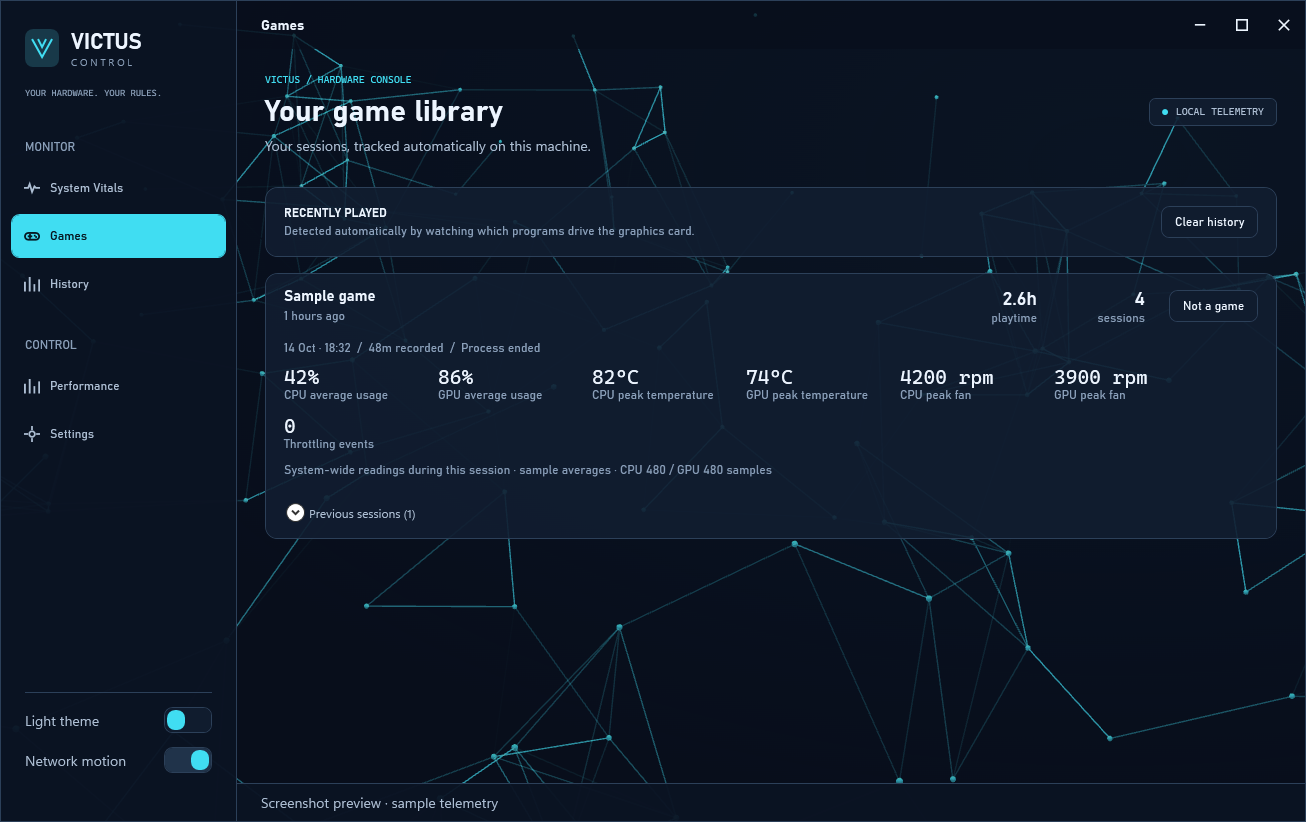
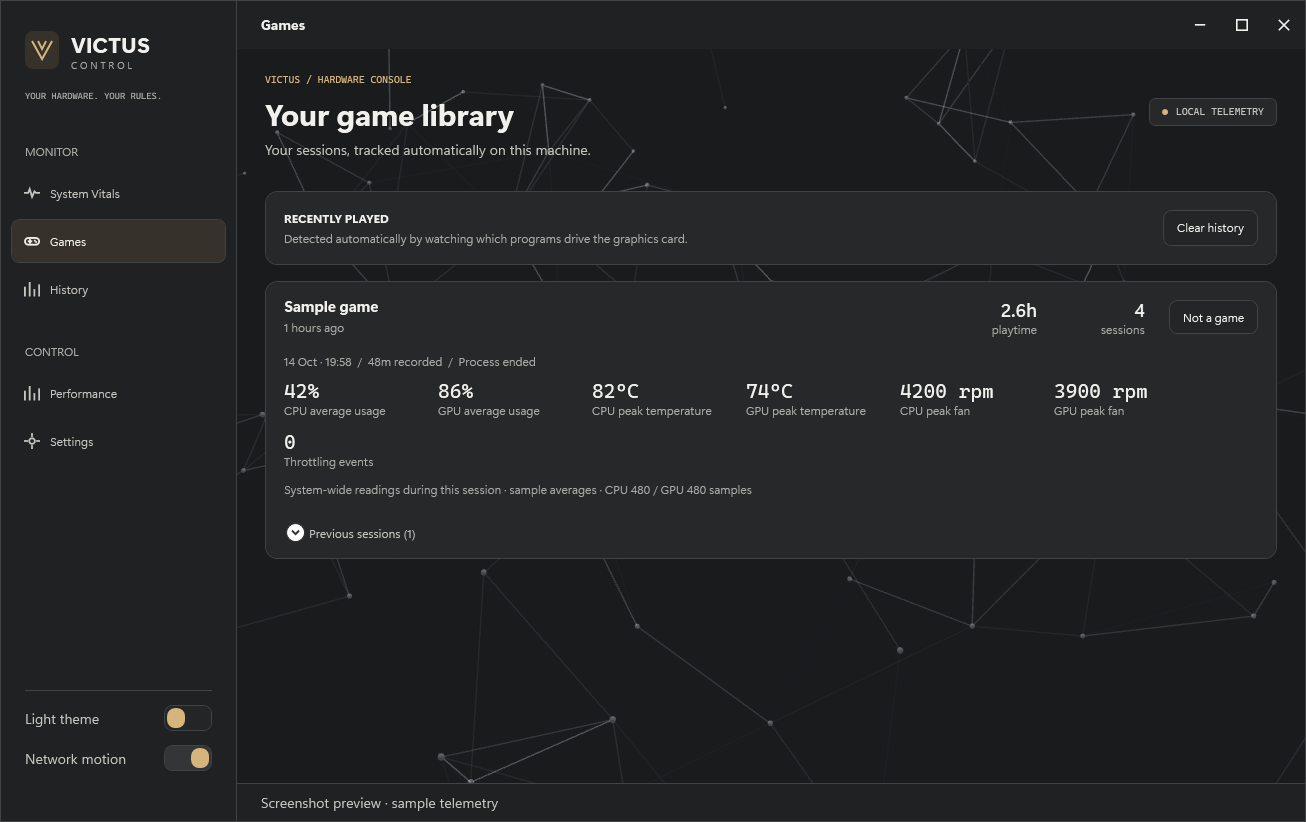
Update theme colors and improve dashboard appearance for better user experience

diff --git a/src/VictusControl.App/Theme/Dark.xaml b/src/VictusControl.App/Theme/Dark.xaml
@@ -1,32 +1,29 @@
 <ResourceDictionary xmlns="http://schemas.microsoft.com/winfx/2006/xaml/presentation"
                     xmlns:x="http://schemas.microsoft.com/winfx/2006/xaml">
-    <SolidColorBrush x:Key="AccentA" Color="#40DDF2"/>
-    <SolidColorBrush x:Key="AccentB" Color="#8895FF"/>
-    <SolidColorBrush x:Key="AccentSoft" Color="#183949"/>
-    <SolidColorBrush x:Key="CardBg" Color="#E6111D30"/>
-    <SolidColorBrush x:Key="CardHover" Color="#20334A"/>
-    <SolidColorBrush x:Key="Danger" Color="#FF738D"/>
-    <SolidColorBrush x:Key="DangerBg" Color="#503F1F2B"/>
-    <SolidColorBrush x:Key="Dither1" Color="#20334A"/>
-    <SolidColorBrush x:Key="Dither2" Color="#17273D"/>
-    <SolidColorBrush x:Key="Dither3" Color="#314760"/>
-    <SolidColorBrush x:Key="Dither4" Color="#405E7A"/>
-    <SolidColorBrush x:Key="Good" Color="#55E3B0"/>
-    <SolidColorBrush x:Key="HeaderBg" Color="#C4080E1B"/>
-    <SolidColorBrush x:Key="Ink" Color="#EDF5FF"/>
-    <SolidColorBrush x:Key="OnAccent" Color="#061923"/>
-    <SolidColorBrush x:Key="Paper" Color="#101C2E"/>
-    <SolidColorBrush x:Key="SidebarBg" Color="#F20B1323"/>
-    <SolidColorBrush x:Key="Stroke" Color="#2C4059"/>
-    <SolidColorBrush x:Key="TextMuted" Color="#8A9FB9"/>
-    <SolidColorBrush x:Key="TextPrimary" Color="#EDF5FF"/>
-    <SolidColorBrush x:Key="TextSecondary" Color="#ADBED3"/>
-    <SolidColorBrush x:Key="Track" Color="#25364F"/>
-    <SolidColorBrush x:Key="Warn" Color="#FFC570"/>
-    <SolidColorBrush x:Key="WarnBg" Color="#503E2C18"/>
-    <SolidColorBrush x:Key="WindowBg" Color="#080E1B"/>
-    <LinearGradientBrush x:Key="AccentRamp" StartPoint="0,1" EndPoint="1,0">
-        <GradientStop Color="#40DDF2" Offset="0"/>
-        <GradientStop Color="#8895FF" Offset="1"/>
-    </LinearGradientBrush>
+    <SolidColorBrush x:Key="AccentA" Color="#D6B57D"/>
+    <SolidColorBrush x:Key="AccentB" Color="#A1B0BB"/>
+    <SolidColorBrush x:Key="AccentSoft" Color="#36322B"/>
+    <SolidColorBrush x:Key="CardBg" Color="#27282A"/>
+    <SolidColorBrush x:Key="CardHover" Color="#333436"/>
+    <SolidColorBrush x:Key="Danger" Color="#E49A91"/>
+    <SolidColorBrush x:Key="DangerBg" Color="#49302E"/>
+    <SolidColorBrush x:Key="Dither1" Color="#343537"/>
+    <SolidColorBrush x:Key="Dither2" Color="#2D2E30"/>
+    <SolidColorBrush x:Key="Dither3" Color="#454648"/>
+    <SolidColorBrush x:Key="Dither4" Color="#606163"/>
+    <SolidColorBrush x:Key="Good" Color="#A9C4A5"/>
+    <SolidColorBrush x:Key="HeaderBg" Color="#202123"/>
+    <SolidColorBrush x:Key="Ink" Color="#F1F0ED"/>
+    <SolidColorBrush x:Key="OnAccent" Color="#24211C"/>
+    <SolidColorBrush x:Key="Paper" Color="#242527"/>
+    <SolidColorBrush x:Key="SidebarBg" Color="#202123"/>
+    <SolidColorBrush x:Key="Stroke" Color="#424345"/>
+    <SolidColorBrush x:Key="TextMuted" Color="#ABABA6"/>
+    <SolidColorBrush x:Key="TextPrimary" Color="#F1F0ED"/>
+    <SolidColorBrush x:Key="TextSecondary" Color="#C5C4BE"/>
+    <SolidColorBrush x:Key="Track" Color="#414244"/>
+    <SolidColorBrush x:Key="Warn" Color="#DFC083"/>
+    <SolidColorBrush x:Key="WarnBg" Color="#463C2A"/>
+    <SolidColorBrush x:Key="WindowBg" Color="#1A1B1D"/>
+    <SolidColorBrush x:Key="AccentRamp" Color="#D6B57D"/>
 </ResourceDictionary>

diff --git a/src/VictusControl.App/Theme/Light.xaml b/src/VictusControl.App/Theme/Light.xaml
@@ -1,32 +1,29 @@
 <ResourceDictionary xmlns="http://schemas.microsoft.com/winfx/2006/xaml/presentation"
                     xmlns:x="http://schemas.microsoft.com/winfx/2006/xaml">
-    <SolidColorBrush x:Key="AccentA" Color="#007B96"/>
-    <SolidColorBrush x:Key="AccentB" Color="#5967D4"/>
-    <SolidColorBrush x:Key="AccentSoft" Color="#D7EFF5"/>
-    <SolidColorBrush x:Key="CardBg" Color="#EFFFFFFF"/>
-    <SolidColorBrush x:Key="CardHover" Color="#E5EFF8"/>
-    <SolidColorBrush x:Key="Danger" Color="#BD254A"/>
-    <SolidColorBrush x:Key="DangerBg" Color="#FFFFDFE7"/>
-    <SolidColorBrush x:Key="Dither1" Color="#E5EFF8"/>
-    <SolidColorBrush x:Key="Dither2" Color="#DFE8F2"/>
-    <SolidColorBrush x:Key="Dither3" Color="#D1DFED"/>
-    <SolidColorBrush x:Key="Dither4" Color="#B6CBE0"/>
-    <SolidColorBrush x:Key="Good" Color="#08785C"/>
-    <SolidColorBrush x:Key="HeaderBg" Color="#C4EDF3FA"/>
-    <SolidColorBrush x:Key="Ink" Color="#152C46"/>
+    <SolidColorBrush x:Key="AccentA" Color="#78582A"/>
+    <SolidColorBrush x:Key="AccentB" Color="#526975"/>
+    <SolidColorBrush x:Key="AccentSoft" Color="#E9E0D1"/>
+    <SolidColorBrush x:Key="CardBg" Color="#FCFBF8"/>
+    <SolidColorBrush x:Key="CardHover" Color="#EEECE6"/>
+    <SolidColorBrush x:Key="Danger" Color="#A43830"/>
+    <SolidColorBrush x:Key="DangerBg" Color="#F6E2DE"/>
+    <SolidColorBrush x:Key="Dither1" Color="#EAE8E1"/>
+    <SolidColorBrush x:Key="Dither2" Color="#EFEEE8"/>
+    <SolidColorBrush x:Key="Dither3" Color="#DAD8D0"/>
+    <SolidColorBrush x:Key="Dither4" Color="#C0BEB5"/>
+    <SolidColorBrush x:Key="Good" Color="#486644"/>
+    <SolidColorBrush x:Key="HeaderBg" Color="#F1F0EB"/>
+    <SolidColorBrush x:Key="Ink" Color="#282925"/>
     <SolidColorBrush x:Key="OnAccent" Color="#FFFFFF"/>
-    <SolidColorBrush x:Key="Paper" Color="#F4F8FC"/>
-    <SolidColorBrush x:Key="SidebarBg" Color="#F2F5F8FD"/>
-    <SolidColorBrush x:Key="Stroke" Color="#C6D4E5"/>
-    <SolidColorBrush x:Key="TextMuted" Color="#526D89"/>
-    <SolidColorBrush x:Key="TextPrimary" Color="#152C46"/>
-    <SolidColorBrush x:Key="TextSecondary" Color="#405B78"/>
-    <SolidColorBrush x:Key="Track" Color="#DAE5F0"/>
-    <SolidColorBrush x:Key="Warn" Color="#996000"/>
-    <SolidColorBrush x:Key="WarnBg" Color="#FFFFEAC7"/>
-    <SolidColorBrush x:Key="WindowBg" Color="#EDF3FA"/>
-    <LinearGradientBrush x:Key="AccentRamp" StartPoint="0,1" EndPoint="1,0">
-        <GradientStop Color="#007B96" Offset="0"/>
-        <GradientStop Color="#5967D4" Offset="1"/>
-    </LinearGradientBrush>
+    <SolidColorBrush x:Key="Paper" Color="#F5F4EF"/>
+    <SolidColorBrush x:Key="SidebarBg" Color="#F1F0EB"/>
+    <SolidColorBrush x:Key="Stroke" Color="#D3D1C9"/>
+    <SolidColorBrush x:Key="TextMuted" Color="#686962"/>
+    <SolidColorBrush x:Key="TextPrimary" Color="#282925"/>
+    <SolidColorBrush x:Key="TextSecondary" Color="#52534D"/>
+    <SolidColorBrush x:Key="Track" Color="#E0DED6"/>
+    <SolidColorBrush x:Key="Warn" Color="#825B1D"/>
+    <SolidColorBrush x:Key="WarnBg" Color="#F2E6CE"/>
+    <SolidColorBrush x:Key="WindowBg" Color="#EAE9E3"/>
+    <SolidColorBrush x:Key="AccentRamp" Color="#78582A"/>
 </ResourceDictionary>

diff --git a/src/VictusControl.App/Theme/Controls.xaml b/src/VictusControl.App/Theme/Controls.xaml
@@ -1,7 +1,7 @@
 <ResourceDictionary xmlns="http://schemas.microsoft.com/winfx/2006/xaml/presentation"
                     xmlns:x="http://schemas.microsoft.com/winfx/2006/xaml">
 
-    <FontFamily x:Key="DisplayFace">Bahnschrift, Segoe UI</FontFamily>
+    <FontFamily x:Key="DisplayFace">Segoe UI Variable Display, Segoe UI</FontFamily>
 
     <FontFamily x:Key="MonoFace">Cascadia Mono, Consolas</FontFamily>
     <FontFamily x:Key="BodyFace">Segoe UI Variable Text, Segoe UI</FontFamily>
@@ -92,10 +92,10 @@
                         </Trigger>
 
                         <Trigger Property="IsChecked" Value="True">
-                            <Setter TargetName="Bd" Property="Background" Value="{DynamicResource AccentA}"/>
-                            <Setter TargetName="Bd" Property="BorderBrush" Value="{DynamicResource AccentA}"/>
-                            <Setter TargetName="Cp" Property="TextElement.Foreground" Value="{DynamicResource OnAccent}"/>
-                            <Setter TargetName="Ico" Property="Stroke" Value="{DynamicResource OnAccent}"/>
+                            <Setter TargetName="Bd" Property="Background" Value="{DynamicResource AccentSoft}"/>
+                            <Setter TargetName="Bd" Property="BorderBrush" Value="{DynamicResource Stroke}"/>
+                            <Setter TargetName="Cp" Property="TextElement.Foreground" Value="{DynamicResource TextPrimary}"/>
+                            <Setter TargetName="Ico" Property="Stroke" Value="{DynamicResource TextPrimary}"/>
                         </Trigger>
                         <Trigger Property="IsKeyboardFocused" Value="True">
                             <Setter TargetName="Bd" Property="BorderBrush" Value="{DynamicResource AccentA}"/>

diff --git a/src/VictusControl.App/Assets/Network/network.css b/src/VictusControl.App/Assets/Network/network.css
@@ -1,6 +1,6 @@
-:root { color-scheme: dark; background: #080e1b; }
-:root.light { color-scheme: light; background: #edf3fa; }
+:root { color-scheme: dark; background: #1a1b1d; }
+:root.light { color-scheme: light; background: #eae9e3; }
 html, body, #network { width: 100%; height: 100%; margin: 0; overflow: hidden; }
-#network { background: radial-gradient(ellipse at 85% 20%, #15334780, transparent 70%); }
-.light #network { background: radial-gradient(ellipse at 85% 20%, #a2d5e650, transparent 70%); }
-canvas { opacity: .65; }
+/* Keep the neutral network visible in both themes without washing out controls. */
+canvas { opacity: .60; }
+.light canvas { opacity: .50; }

diff --git a/src/VictusControl.App/Assets/Network/network.js b/src/VictusControl.App/Assets/Network/network.js
@@ -28,8 +28,8 @@
       return;
     }
     const colors = {
-      color: state.light ? 0x007b96 : 0x40ddf2,
-      backgroundColor: state.light ? 0xedf3fa : 0x080e1b
+      color: state.light ? 0x737772 : 0x777b80,
+      backgroundColor: state.light ? 0xeae9e3 : 0x1a1b1d
     };
     // NET chooses additive/subtractive blending only on initialization.
     if (effect && renderedLight !== state.light) stop();
@@ -50,7 +50,7 @@
         scaleMobile: 1.00,
         points: 8,
         maxDistance: 22,
-        spacing: 19,
+        spacing: 20,
         ...colors
       });
       if (!effect.renderer || !effect.scene) throw new Error('WebGL unavailable');

diff --git a/README.md b/README.md
@@ -98,12 +98,14 @@ reports hardware support and application details.
 
 ### Appearance
 
-The dashboard uses navy and cyan surfaces, translucent cards, Bahnschrift headings,
-Segoe UI body text, and monospaced telemetry. Both dark and light themes are available
-in the sidebar. Fonts fall back to standard Windows fonts if needed.
+The dashboard uses graphite surfaces, warm off-white text, and muted brass accents,
+with steel-gray chart lines and opaque cards. Light mode uses warm stone surfaces.
+Segoe UI Variable headings and body text pair with monospaced telemetry. Both themes
+are available in the sidebar, with standard Windows font fallbacks.
 
 The background runs Vanta NET 0.5.24 with Three.js r134 in a WebView2 composition
-layer beneath the native controls. Scripts are bundled locally; no CDN or internet
+layer beneath the native controls, with visible neutral network lines and nodes.
+Scripts are bundled locally; no CDN or internet
 connection is needed at runtime. Mouse and touch movement interact with the network
 without intercepting controls. The **Network motion** switch is saved between runs.
 Animation stops when the window is minimized or hidden in the tray and respects
